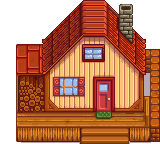
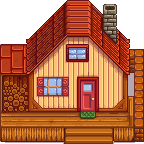
Fixed house sprite size

diff --git a/public/planner/js/data/layouts.js b/public/planner/js/data/layouts.js
@@ -18,7 +18,7 @@ var layouts = {
             'M576,784L688,784L688,800L704,800L704,816L736,816L736,832L752,832L752,896L736,896L736,912L720,912L720,928L672,928L672,944L592,944L592,928L576,928L576,912L544,912L544,880L528,880L528,832L544,832L544,816L560,816L560,800L576,800L576,784z' // big pond
         ].join(''),
         house: {
-            x: 58,
+            x: 59,
             y: 8
         },
         greenhouse: {
@@ -40,7 +40,7 @@ var layouts = {
             'M704,384,L816,384,L816,400,L832,400,L832,416,L864,416,L864,432,L880,432,L880,464,L896,464,L896,480,L928,480,L928,560,L880,560,L880,576,L880,592,L864,592,L864,608,L848,608,L848,624,L800,624,L800,640,L720,640,L720,624,L704,624,L704,608,L672,608,L672,592,L656,592,L656,576,L640,576,L640,560,L624,560,L624,464,L656,464,L656,432,L672,432,L672,416,L688,416,L688,400,L704,400,L704,384z' // middle lake
         ].join(''),
         house: {
-            x: 58,
+            x: 59,
             y: 8
         },
         greenhouse: {
@@ -63,7 +63,7 @@ var layouts = {
             'M944,176L1088,176L1088,256L1104,256L1104,272L944,272z', // house
         ].join(''),
         house: {
-            x: 58,
+            x: 59,
             y: 8
         },
         greenhouse: {
@@ -87,7 +87,7 @@ var layouts = {
             'M944,176L1088,176L1088,256L1104,256L1104,272L944,272z', // house
         ].join(''),
         house: {
-            x: 58,
+            x: 59,
             y: 8
         },
         greenhouse: {
@@ -112,7 +112,7 @@ var layouts = {
             'M944,176L1088,176L1088,256L1104,256L1104,272L944,272z', // house
         ].join(''),
         house: {
-            x: 58,
+            x: 59,
             y: 8
         },
         greenhouse: {
@@ -128,7 +128,7 @@ var layouts = {
         backgroundImage: 'wonderful-farm-life.jpg',
         restrictionPath: null,
         house: {
-            x: 58,
+            x: 59,
             y: 8
         },
         greenhouse: {
@@ -144,7 +144,7 @@ var layouts = {
         backgroundImage: 'hill-top-forest.jpg',
         restrictionPath: null,
         house: {
-            x: 58,
+            x: 59,
             y: 8
         },
         greenhouse: {
@@ -160,7 +160,7 @@ var layouts = {
         backgroundImage: 'secret-forest.jpg',
         restrictionPath: null,
         house: {
-            x: 58,
+            x: 59,
             y: 8
         },
         greenhouse: {
@@ -176,7 +176,7 @@ var layouts = {
         backgroundImage: 'fancy-farm.jpg',
         restrictionPath: null,
         house: {
-            x: 58,
+            x: 59,
             y: 8
         },
         greenhouse: {

diff --git a/public/planner/index.html b/public/planner/index.html
@@ -297,6 +297,10 @@
 
                     <div class="panel info changelog" id="changelog">
                         <h3>Changelog:</h3>
+                        <b>24th Oct</b>
+                        <ul>
+                            <li>Fixed house sprite size</li>
+                        </ul>
                         <b>23th Oct</b>
                         <ul>
                             <li>Added 3 new custom layouts</li>

diff --git a/public/planner/js/data/sprites.js b/public/planner/js/data/sprites.js
@@ -358,7 +358,7 @@ var data = {
             "height": 32
         },
         'house': {
-            "width": 160,
+            "width": 144,
             "height": 144,
             "sprite": "./img/tiles/house.png"
         },
